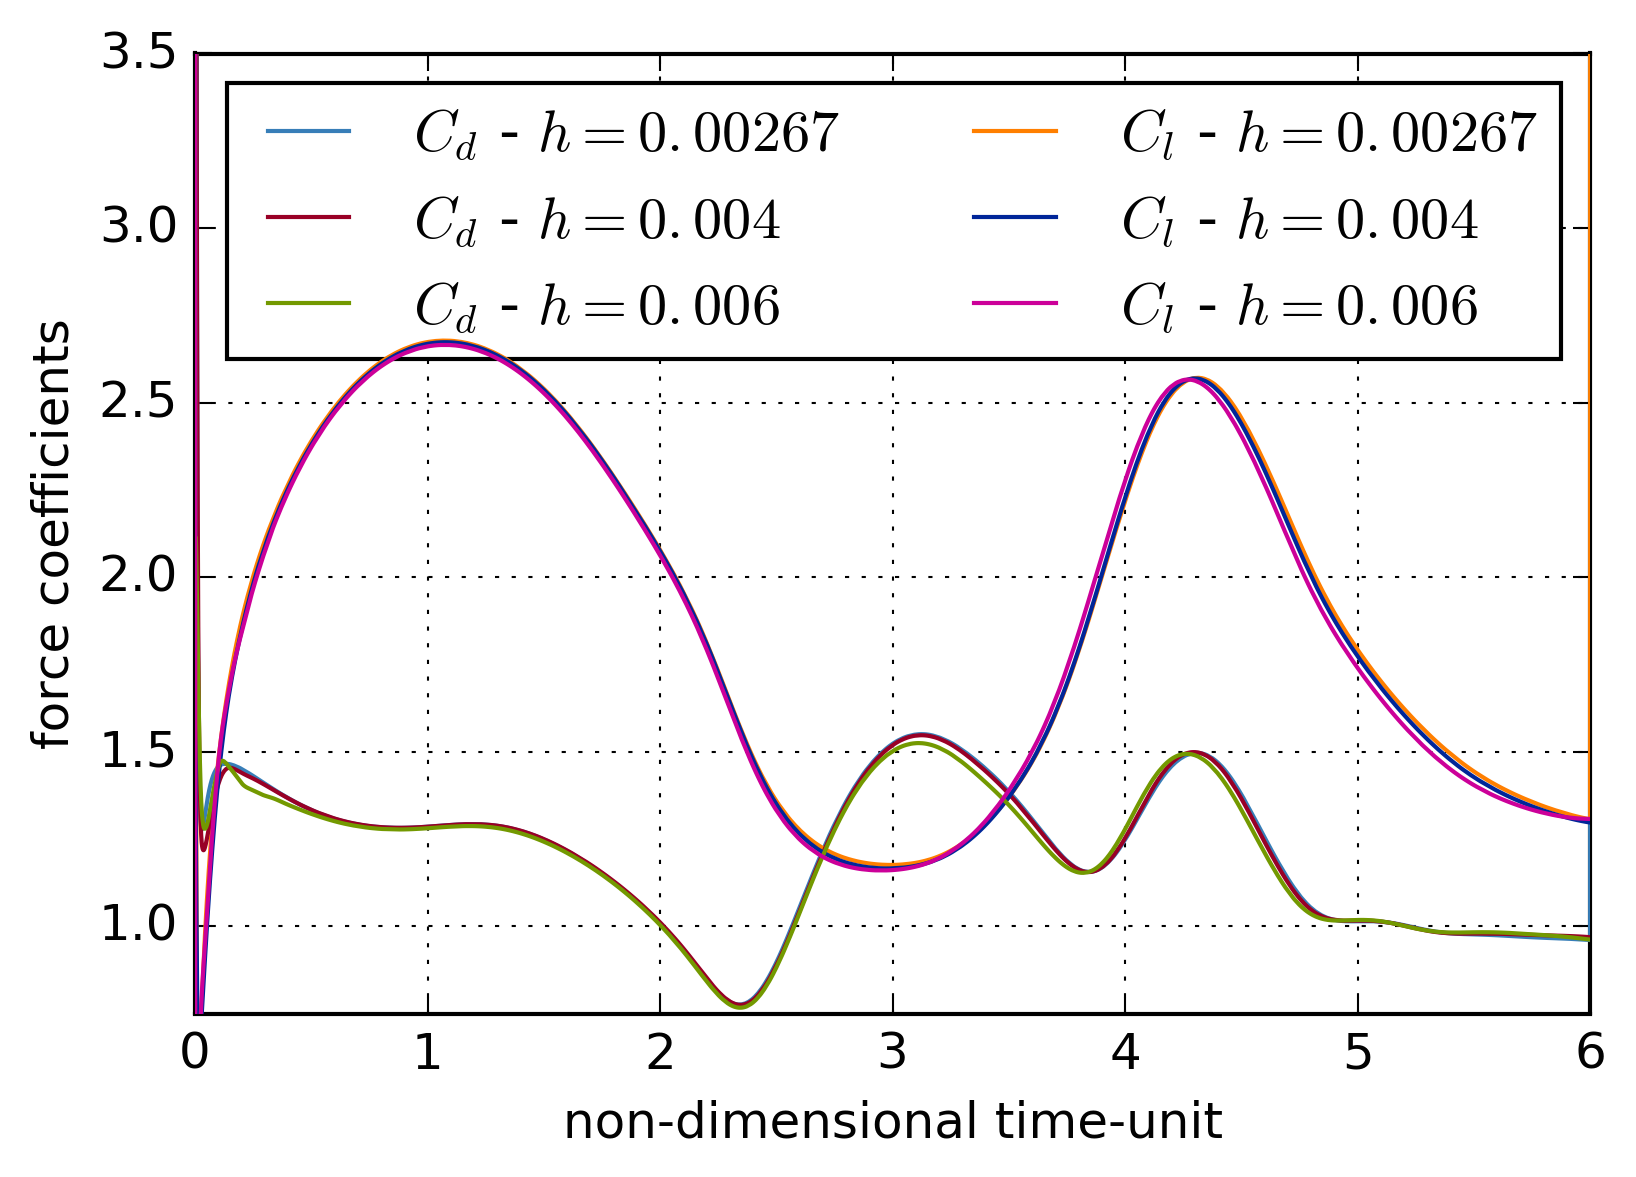
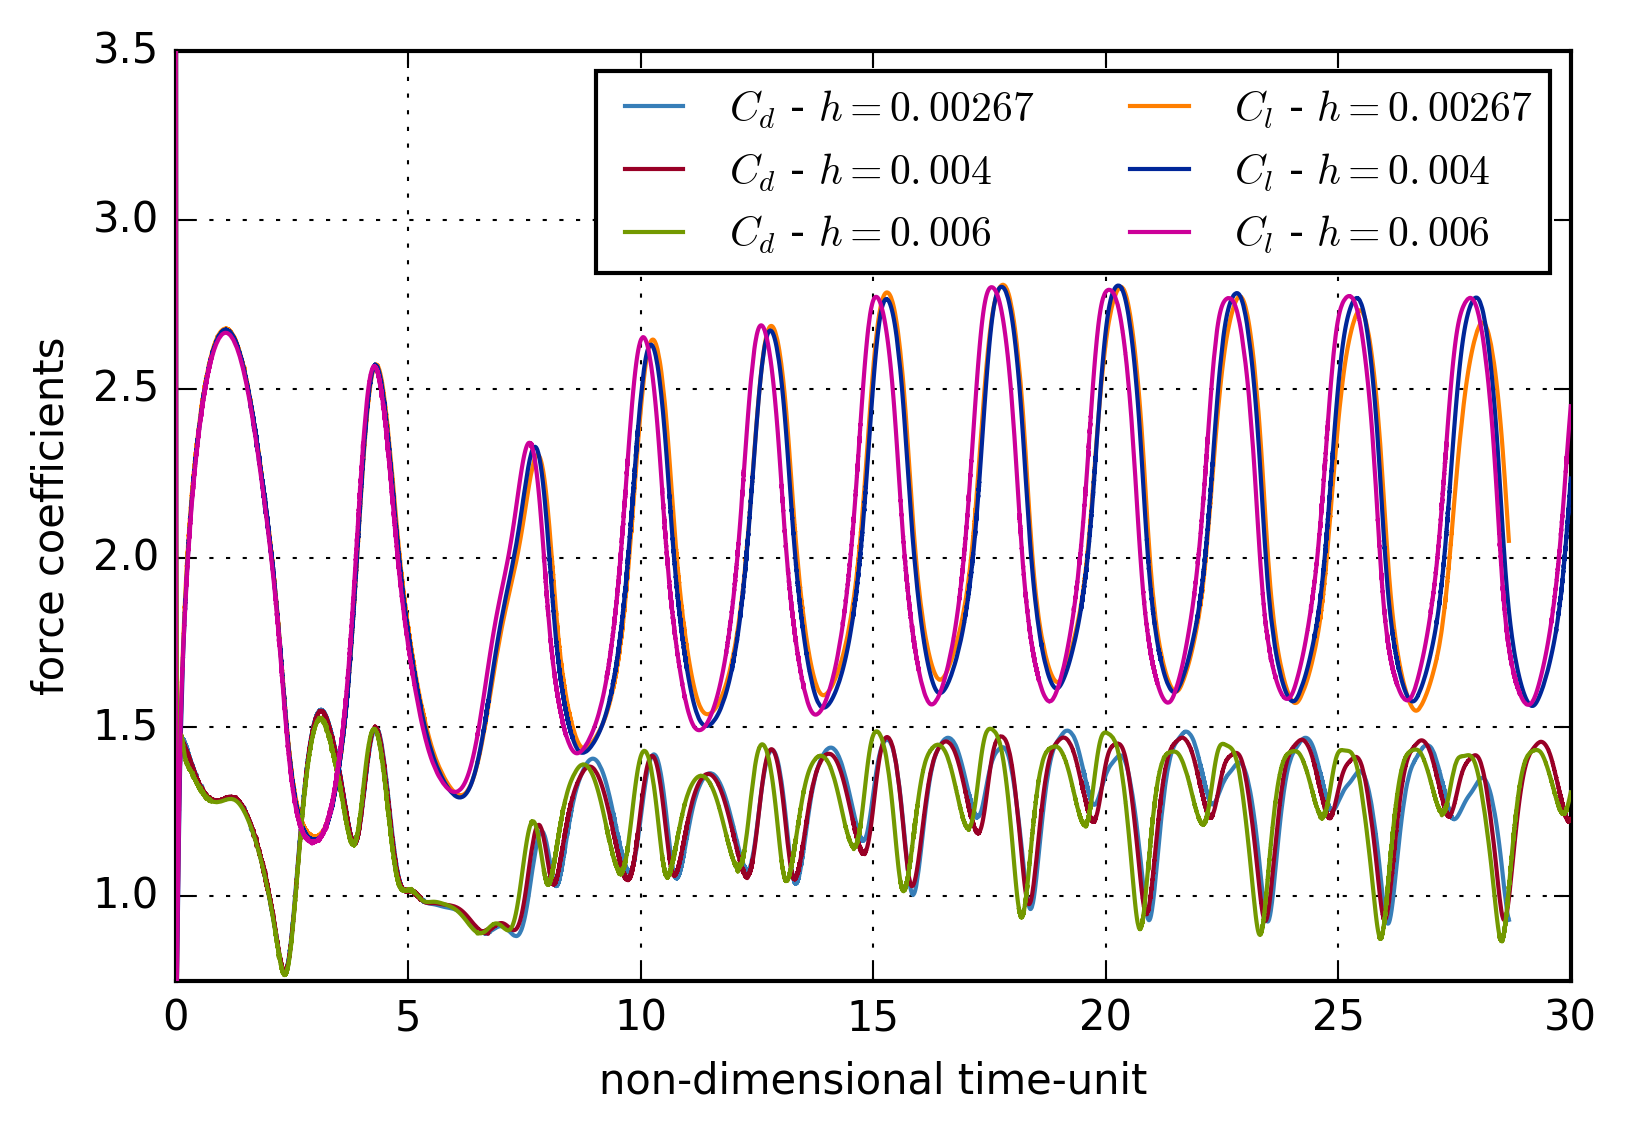
Change grid-convergence input files
Now using relative tolerance of 1.0E-06 for the Poisson solver.
So far, we have computed up to 28 time-units of flow simulation
on the finest grid (h=0.00267).
We cannot yet perform a grid-convergence analysis for the time-averaged
lift coefficient.

Changed region(s): [[0.0, 0.0309, 0.9834, 0.9894], [0.2459, 0.773, 0.2766, 0.8039], [0.1844, 0.1546, 0.2151, 0.1855]]

diff --git a/reproducibilityPackages/convergence/cuibm/gridConvergence/plotForceCoefficients.py b/reproducibilityPackages/convergence/cuibm/gridConvergence/plotForceCoefficients.py
@@ -3,16 +3,14 @@ Plots the instantaneous force coefficients obtained on three systematically
 refined grids in the uniform region (h=0.006, 0.004, and 0.00267).
 The grid is stretched outside the uniform region to the external boundaries with
 a constant ratio of 1.01.
-We use absolute tolerances of 1.0E-16 and 1.0E-08 as exit criterion for the 
+We use absolute tolerances of 1.0E-16 and 1.0E-06 as exit criterion for the 
 velocity and Poisson solvers, respectively.
 """
 
 import os
-import sys
 import warnings
 
 import numpy
-from scipy import interpolate
 from matplotlib import pyplot
 
 import snake
@@ -25,13 +23,9 @@ if snake.__version__ != '0.1.2':
 
 
 cases = []
-resolutions = ['h=0.00267', 'h=0.004', 'h=0.006']
-time_limits = (1.0, 2.0)
-time_step = int(6.0 / 2.0E-04)
-
 fx, fy = [], []
-p = []
-qx, qy = [], []
+resolutions = ['h=0.00267', 'h=0.004', 'h=0.006']
+time_limits = (20.0, 28.0)
 
 for resolution in resolutions:
   case = CuIBMSimulation(directory=os.path.join(os.path.dirname(__file__),
@@ -41,95 +35,15 @@ for resolution in resolutions:
   case.get_mean_forces(limits=time_limits)
   fx.append(case.forces[0].mean['value'])
   fy.append(case.forces[1].mean['value'])
-  case.read_grid()
-  p_tmp = case.read_pressure(time_step)
-  p.append(p_tmp.values)
-  qx_tmp, qy_tmp = case.read_fluxes(time_step)
-  qx.append(qx_tmp.values)
-  qy.append(qy_tmp.values)
   cases.append(case)
 
+# Calculates the observed order of convergence for the time-averaged force
+# coefficients.
 ratio = 1.5
-order = (numpy.log((fx[2]-fx[1])/(fx[1]-fx[0]))/numpy.log(ratio))
+order = numpy.log((fx[2]-fx[1])/(fx[1]-fx[0]))/numpy.log(ratio)
 print(order)
-order = (numpy.log((fy[2]-fy[1])/(fy[1]-fy[0]))/numpy.log(ratio))
+order = numpy.log((fy[2]-fy[1])/(fy[1]-fy[0]))/numpy.log(ratio)
 print(order)
-
-# interpolate the pressure field from the fine grid to the coarse one
-x, y = cases[0].grid[0], cases[0].grid[1]
-x_p, y_p = 0.5 * (x[1:] + x[:-1]), 0.5 * (y[1:] + y[:-1])
-f = interpolate.interp2d(x_p, y_p, p[0].transpose(), 
-                         kind='cubic')
-x, y = cases[-1].grid[0], cases[-1].grid[1]
-x_p, y_p = 0.5 * (x[1:] + x[:-1]), 0.5 * (y[1:] + y[:-1])
-p_f2c = f(x_p, y_p).transpose()
-
-# interpolate the pressure field from the medium grid to the coarse one
-x, y = cases[1].grid[0], cases[1].grid[1]
-x_p, y_p = 0.5 * (x[1:] + x[:-1]), 0.5 * (y[1:] + y[:-1])
-f = interpolate.interp2d(x_p, y_p, p[1].transpose(), 
-                         kind='cubic')
-x, y = cases[-1].grid[0], cases[-1].grid[1]
-x_p, y_p = 0.5 * (x[1:] + x[:-1]), 0.5 * (y[1:] + y[:-1])
-p_m2c = f(x_p, y_p).transpose()
-
-a = []
-for i in range(3):
-  a.append(numpy.linalg.norm(p[i]) / ((cases[i].grid[0].size-1)*(cases[i].grid[1].size-1)))
-order = (numpy.log((a[2]-a[1])/(a[1]-a[0]))/numpy.log(ratio))
-print(order)
-
-order = (numpy.log(numpy.linalg.norm(p[2]-p_m2c)
-                   / numpy.linalg.norm(p_m2c-p_f2c))
-         / numpy.log(ratio))
-print(order)
-
-pyplot.figure()
-levels = numpy.linspace(0.0, 1.0, 10)
-cont = pyplot.contourf(x_p, y_p, numpy.absolute(p[-1]-p_m2c),
-                       levels=levels,
-                       extend='both')
-cbar = pyplot.colorbar(cont)
-pyplot.title('coarse-medium')
-
-pyplot.figure()
-levels = numpy.linspace(0.0, 1.0, 10)
-cont = pyplot.contourf(x_p, y_p, numpy.absolute(p_m2c-p_f2c),
-                       levels=levels,
-                       extend='both')
-cbar = pyplot.colorbar(cont)
-pyplot.title('medium-fine')
-
-pyplot.figure()
-levels = numpy.linspace(-0.5, 0.5, 10)
-x, y = cases[0].grid[0], cases[0].grid[1]
-x_p, y_p = 0.5 * (x[1:] + x[:-1]), 0.5 * (y[1:] + y[:-1])
-cont = pyplot.contourf(x_p, y_p, 
-                       p[0].transpose(),
-                       levels=levels,
-                       extend='both')
-cbar = pyplot.colorbar(cont)
-pyplot.title('fine')
-
-
-pyplot.show()
-
-# x = numpy.arange(-5.01, 5.01, 0.25)
-# y = numpy.arange(-5.01, 5.01, 0.25)
-# xx, yy = numpy.meshgrid(x, y)
-# z = numpy.sin(xx**2+yy**2)
-# f = interpolate.interp2d(x, y, z, kind='cubic')
-# print(x.shape)
-# print(y.shape)
-# print(z.shape)
-
-# xnew = numpy.arange(-5.01, 5.01, 1e-2)
-# ynew = numpy.arange(-5.01, 5.01, 1e-2)
-# znew = f(xnew, ynew)
-# pyplot.plot(x, z[0, :], 'ro-', xnew, znew[0, :], 'b-')
-# pyplot.show()
-
-sys.exit()
 
 # Plots the instantaneous force coefficients obtained with different meshes.
 fig, ax = pyplot.subplots(figsize=(6, 4))
@@ -149,8 +63,8 @@ for i, case in enumerate(cases):
           color=colors[2*i+1],
           linestyle='-', linewidth=1,
           zorder=10+i)
-ax.axis([0.0, 6.0, 0.75, 3.5])
-ax.legend(ncol=2, loc='upper right', prop={'size': 14})
+ax.axis([0.0, 30.0, 0.75, 3.5])
+ax.legend(ncol=2, loc='upper right', prop={'size': 10})
 file_path = os.path.join(os.path.dirname(__file__),
                          'forceCoefficients.png')
 pyplot.savefig(file_path,
@@ -158,26 +72,20 @@ pyplot.savefig(file_path,
                format='png',
                dpi=300)
 
-# Plots the instantaneous force coefficients over a smaller time-range.
+# Plots the instantaneous lift coefficients over a smaller time-range.
 fig, ax = pyplot.subplots(figsize=(6, 4))
 ax.grid(True, zorder=0)
 ax.set_xlabel('non-dimensional time-unit')
 ax.set_ylabel('force coefficients')
 colors = ('#377eb8', '#ff7f00', '#990026', '#002699', '#739900', '#CC0099')
 for i, case in enumerate(cases):
-  ax.plot(case.forces[0].times, 2.0*case.forces[0].values,
-          label='$C_d$ - ${}$'.format(resolutions[i]),
-          color=colors[2*i],
-          linestyle='-', linewidth=1,
-          zorder=10+i)
-for i, case in enumerate(cases):
   ax.plot(case.forces[1].times, 2.0*case.forces[1].values,
           label='$C_l$ - ${}$'.format(resolutions[i]),
           color=colors[2*i+1],
           linestyle='-', linewidth=1,
           zorder=10+i)
-ax.axis([3.0, 5.0, 1.0, 3.5])
-ax.legend(ncol=2, loc='upper right', prop={'size': 14})
+ax.axis([20.0, 30.0, 1.5, 3.5])
+ax.legend(ncol=1, loc='upper right', prop={'size': 10})
 file_path = os.path.join(os.path.dirname(__file__),
                          'forceCoefficientsZoom.png')
 pyplot.savefig(file_path,

diff --git a/reproducibilityPackages/convergence/cuibm/gridConvergence/README.md b/reproducibilityPackages/convergence/cuibm/gridConvergence/README.md
@@ -9,7 +9,7 @@ The coarse grid has a grid-spacing of `h=0.006` in the uniform region; outside t
 The medium and fine grids have a grid-spacing of `h=0.004` and `h=0.006`, respectively, in the uniform region; the same stretching ratio of `1.01` is used.
 We end up with a refinement ratio of `1.5 (=0.006/0.004=0.004/0.00267)`.
 
-We choose a time-increment of `0.0002` and set the exit criterion for the velocity and Poisson solvers with an absolute tolerance of `1.0E-16` and `1.0E-08`, respectively.
+We choose a time-increment of `0.0002` and set the exit criterion for the velocity and Poisson solvers with an absolute tolerance of `1.0E-16` and `1.0E-06`, respectively.
 
 To run the simulations:
 
